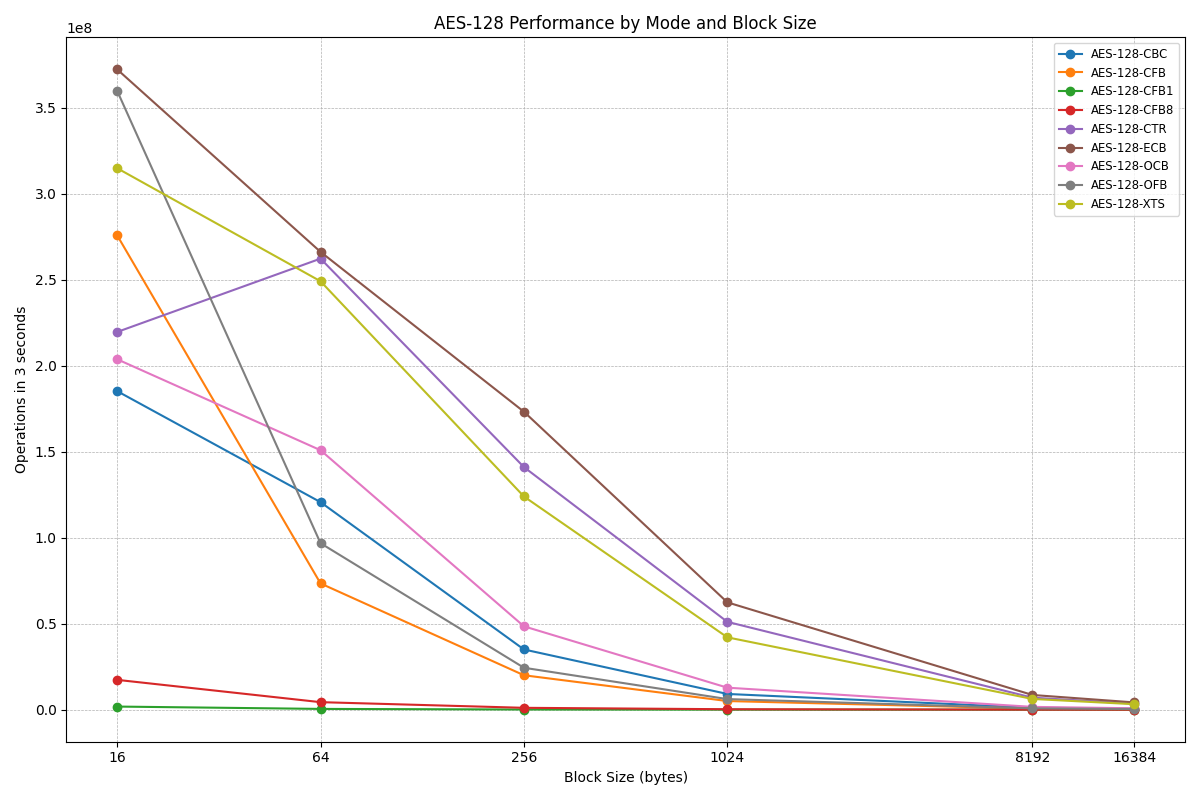
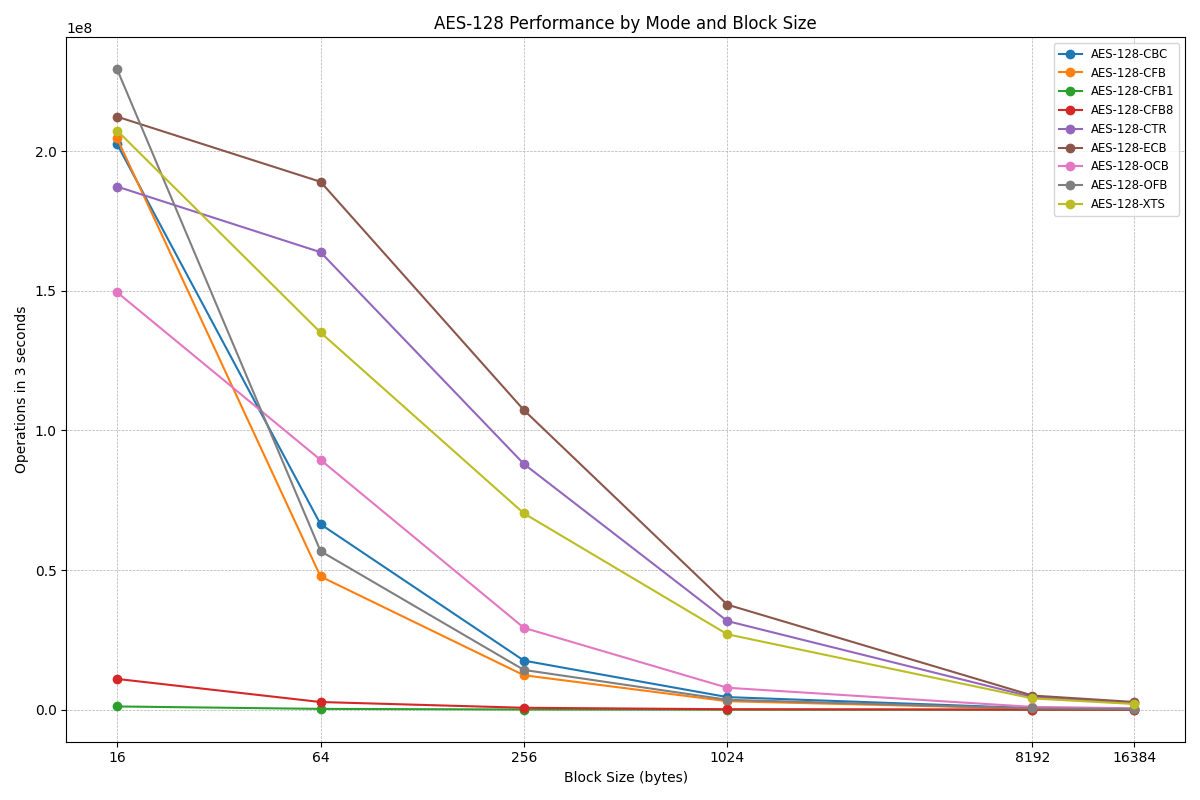
m1 vm plots

diff --git a/plot_aes_benchmarks.py b/plot_aes_benchmarks.py
@@ -3,7 +3,7 @@ import matplotlib.pyplot as plt
 
 # Load CSV
 """ df = pd.read_csv("./container_out/aes_benchmark_results.csv") """
-df = pd.read_csv("m4_lima_aes_benchmark_results.csv")
+df = pd.read_csv("m1_vm_aes_benchmark_results.csv")
 
 # Split algorithm into key size and mode
 df[["cipher", "key_size", "mode"]] = df["algorithm"].str.extract(r"(AES)-(\d+)-([A-Z0-9]+)")
